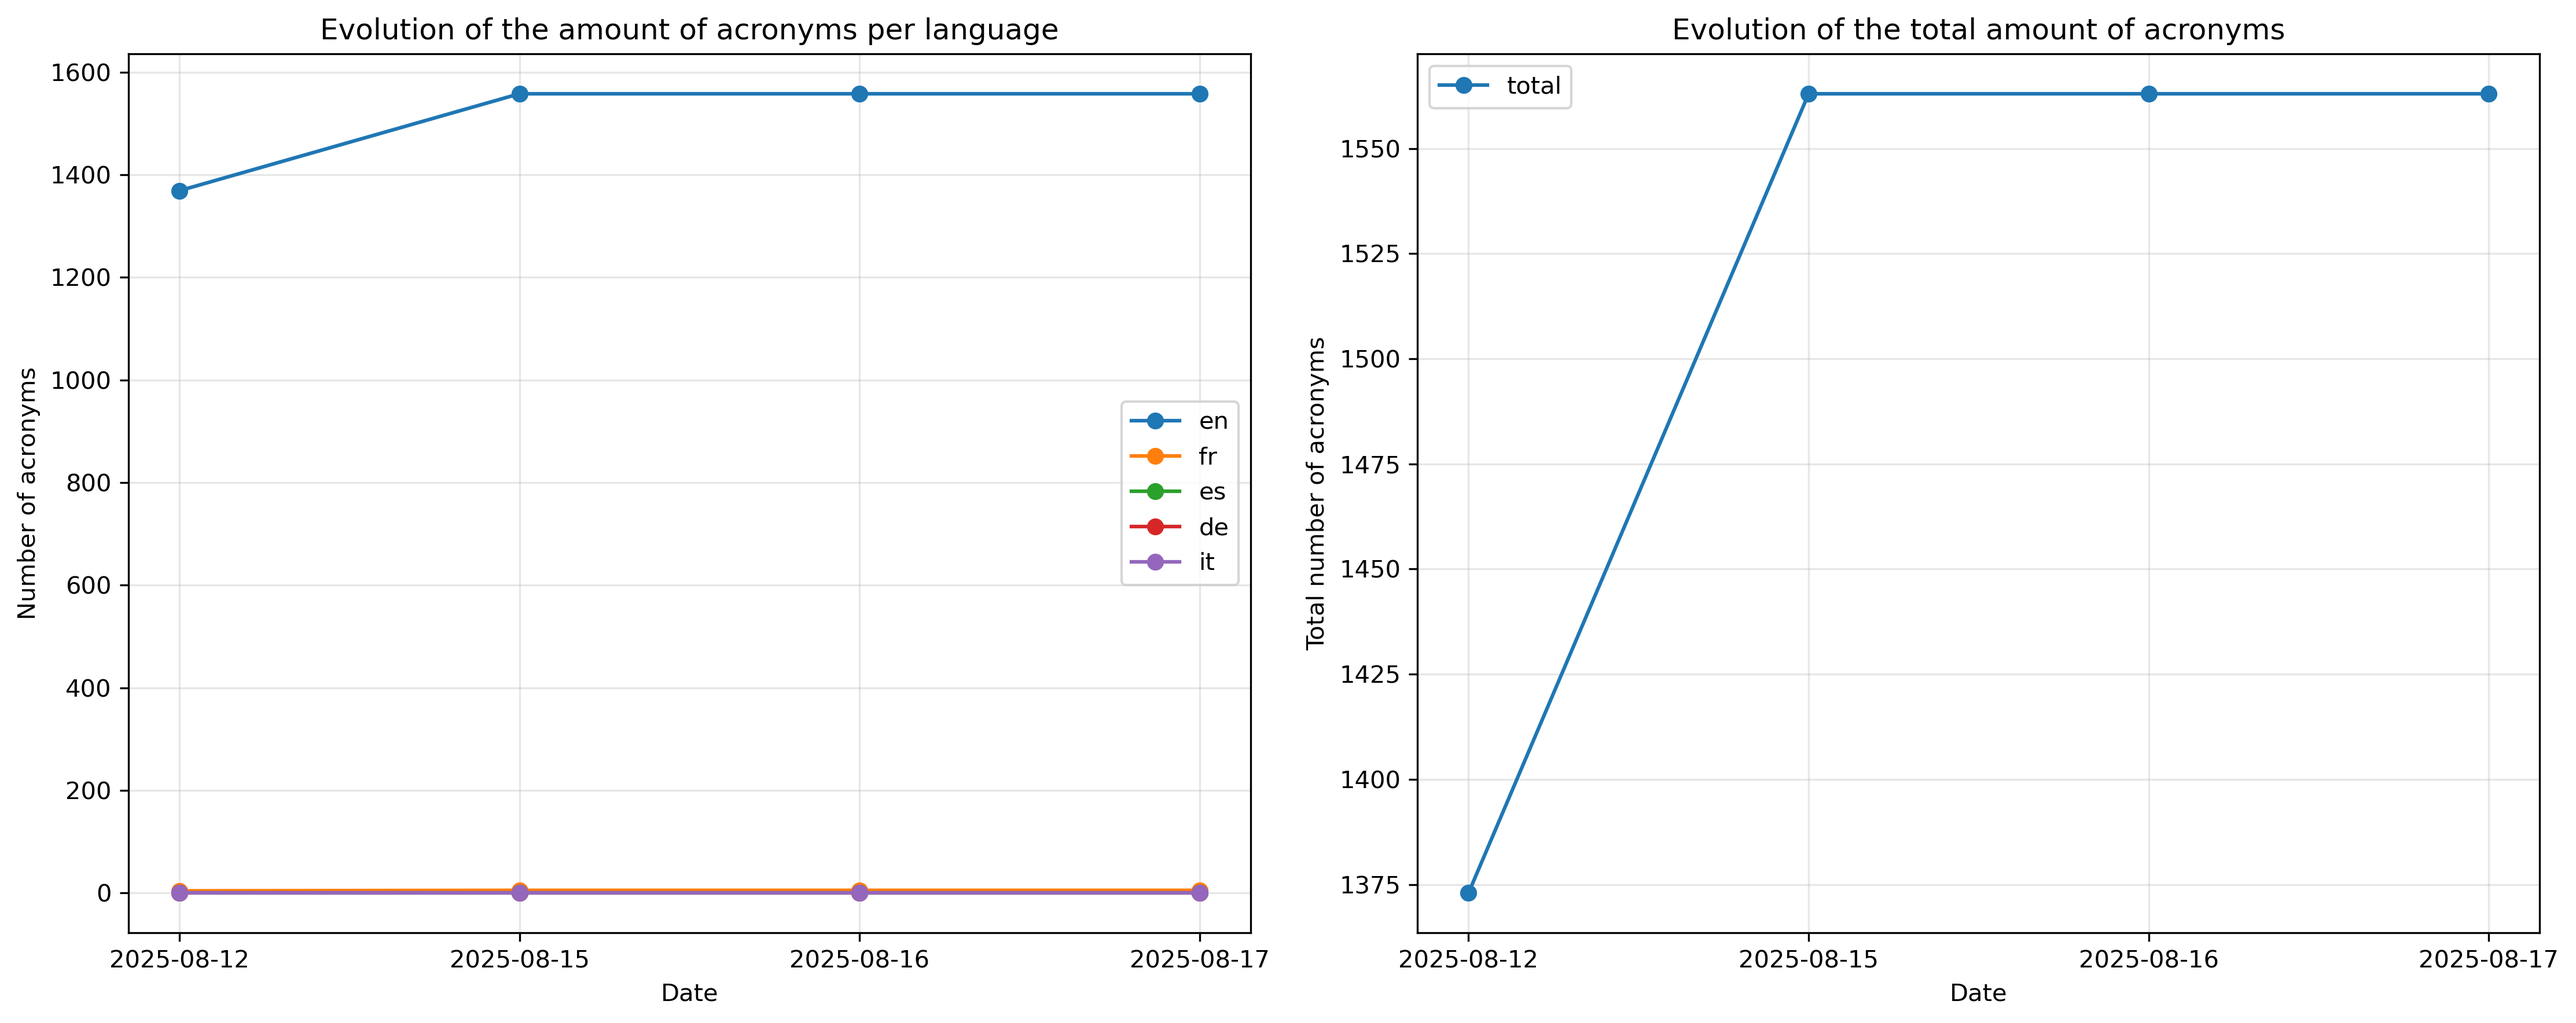
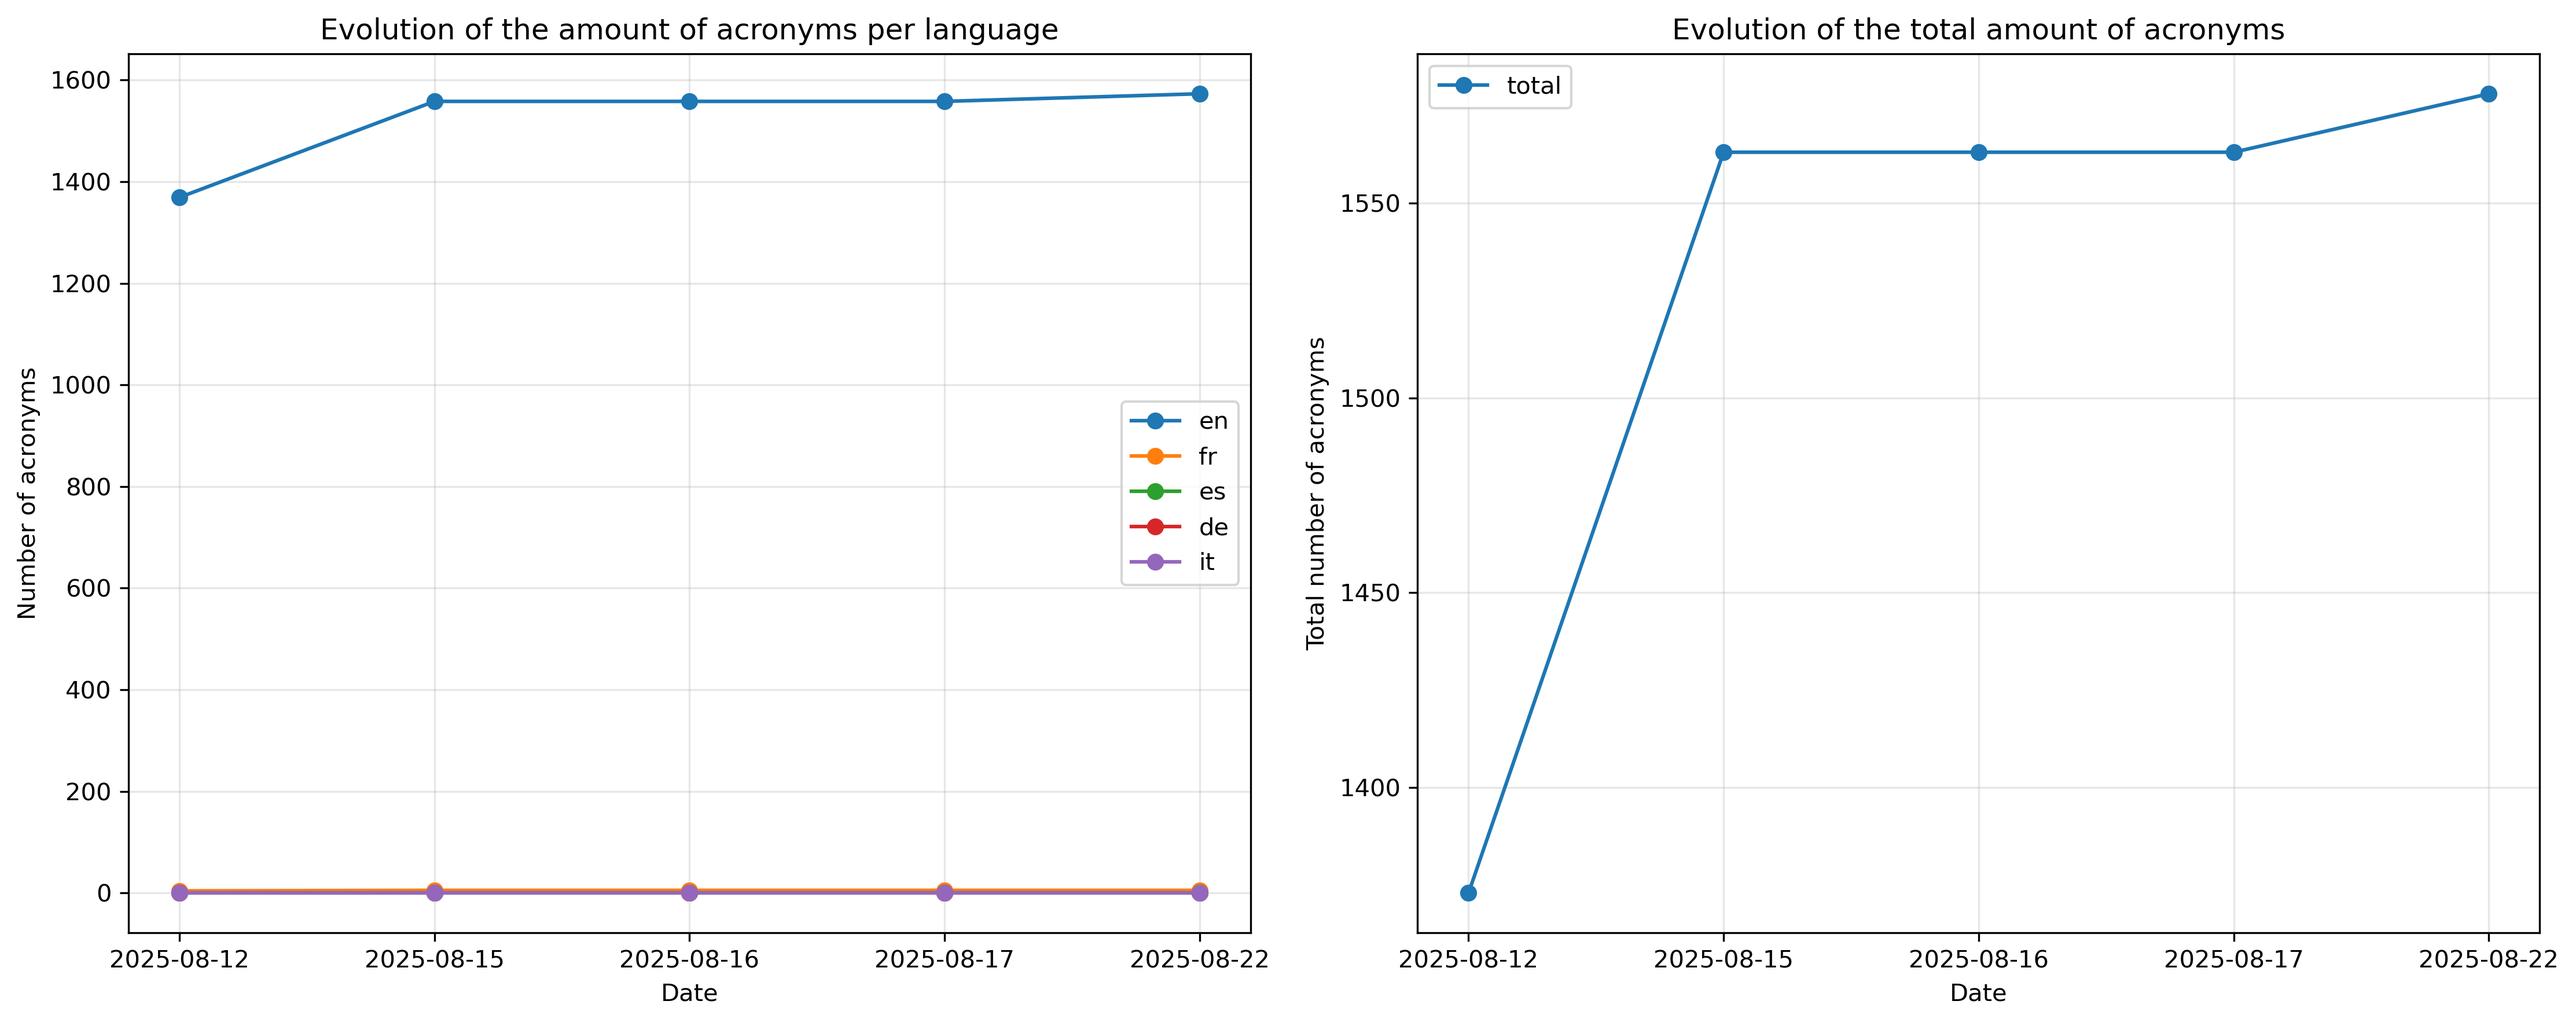
:arrow_up: Updated acronyms

diff --git a/pycronyms/pycronyms_output/README.md b/pycronyms/pycronyms_output/README.md
@@ -17,6 +17,6 @@ The matrix below shows the number of acronyms fetched by language and category.
 | Category\Language | en | fr | es | de | it | Total |
 | - | - | - | - | - | - | - |
 | **common** | 0 | 3 | 0 | 0 | 0 | 3 |
-| **computer_science** | 1558 | 2 | 0 | 0 | 0 | 1560 |
-| **Total** | 1558 | 5 | 0 | 0 | 0 | 1563 |
+| **computer_science** | 1573 | 2 | 0 | 0 | 0 | 1575 |
+| **Total** | 1573 | 5 | 0 | 0 | 0 | 1578 |
 

diff --git a/pycronyms_output/README.md b/pycronyms_output/README.md
@@ -17,6 +17,6 @@ The matrix below shows the number of acronyms fetched by language and category.
 | Category\Language | en | fr | es | de | it | Total |
 | - | - | - | - | - | - | - |
 | **common** | 0 | 3 | 0 | 0 | 0 | 3 |
-| **computer_science** | 1558 | 2 | 0 | 0 | 0 | 1560 |
-| **Total** | 1558 | 5 | 0 | 0 | 0 | 1563 |
+| **computer_science** | 1573 | 2 | 0 | 0 | 0 | 1575 |
+| **Total** | 1573 | 5 | 0 | 0 | 0 | 1578 |
 
